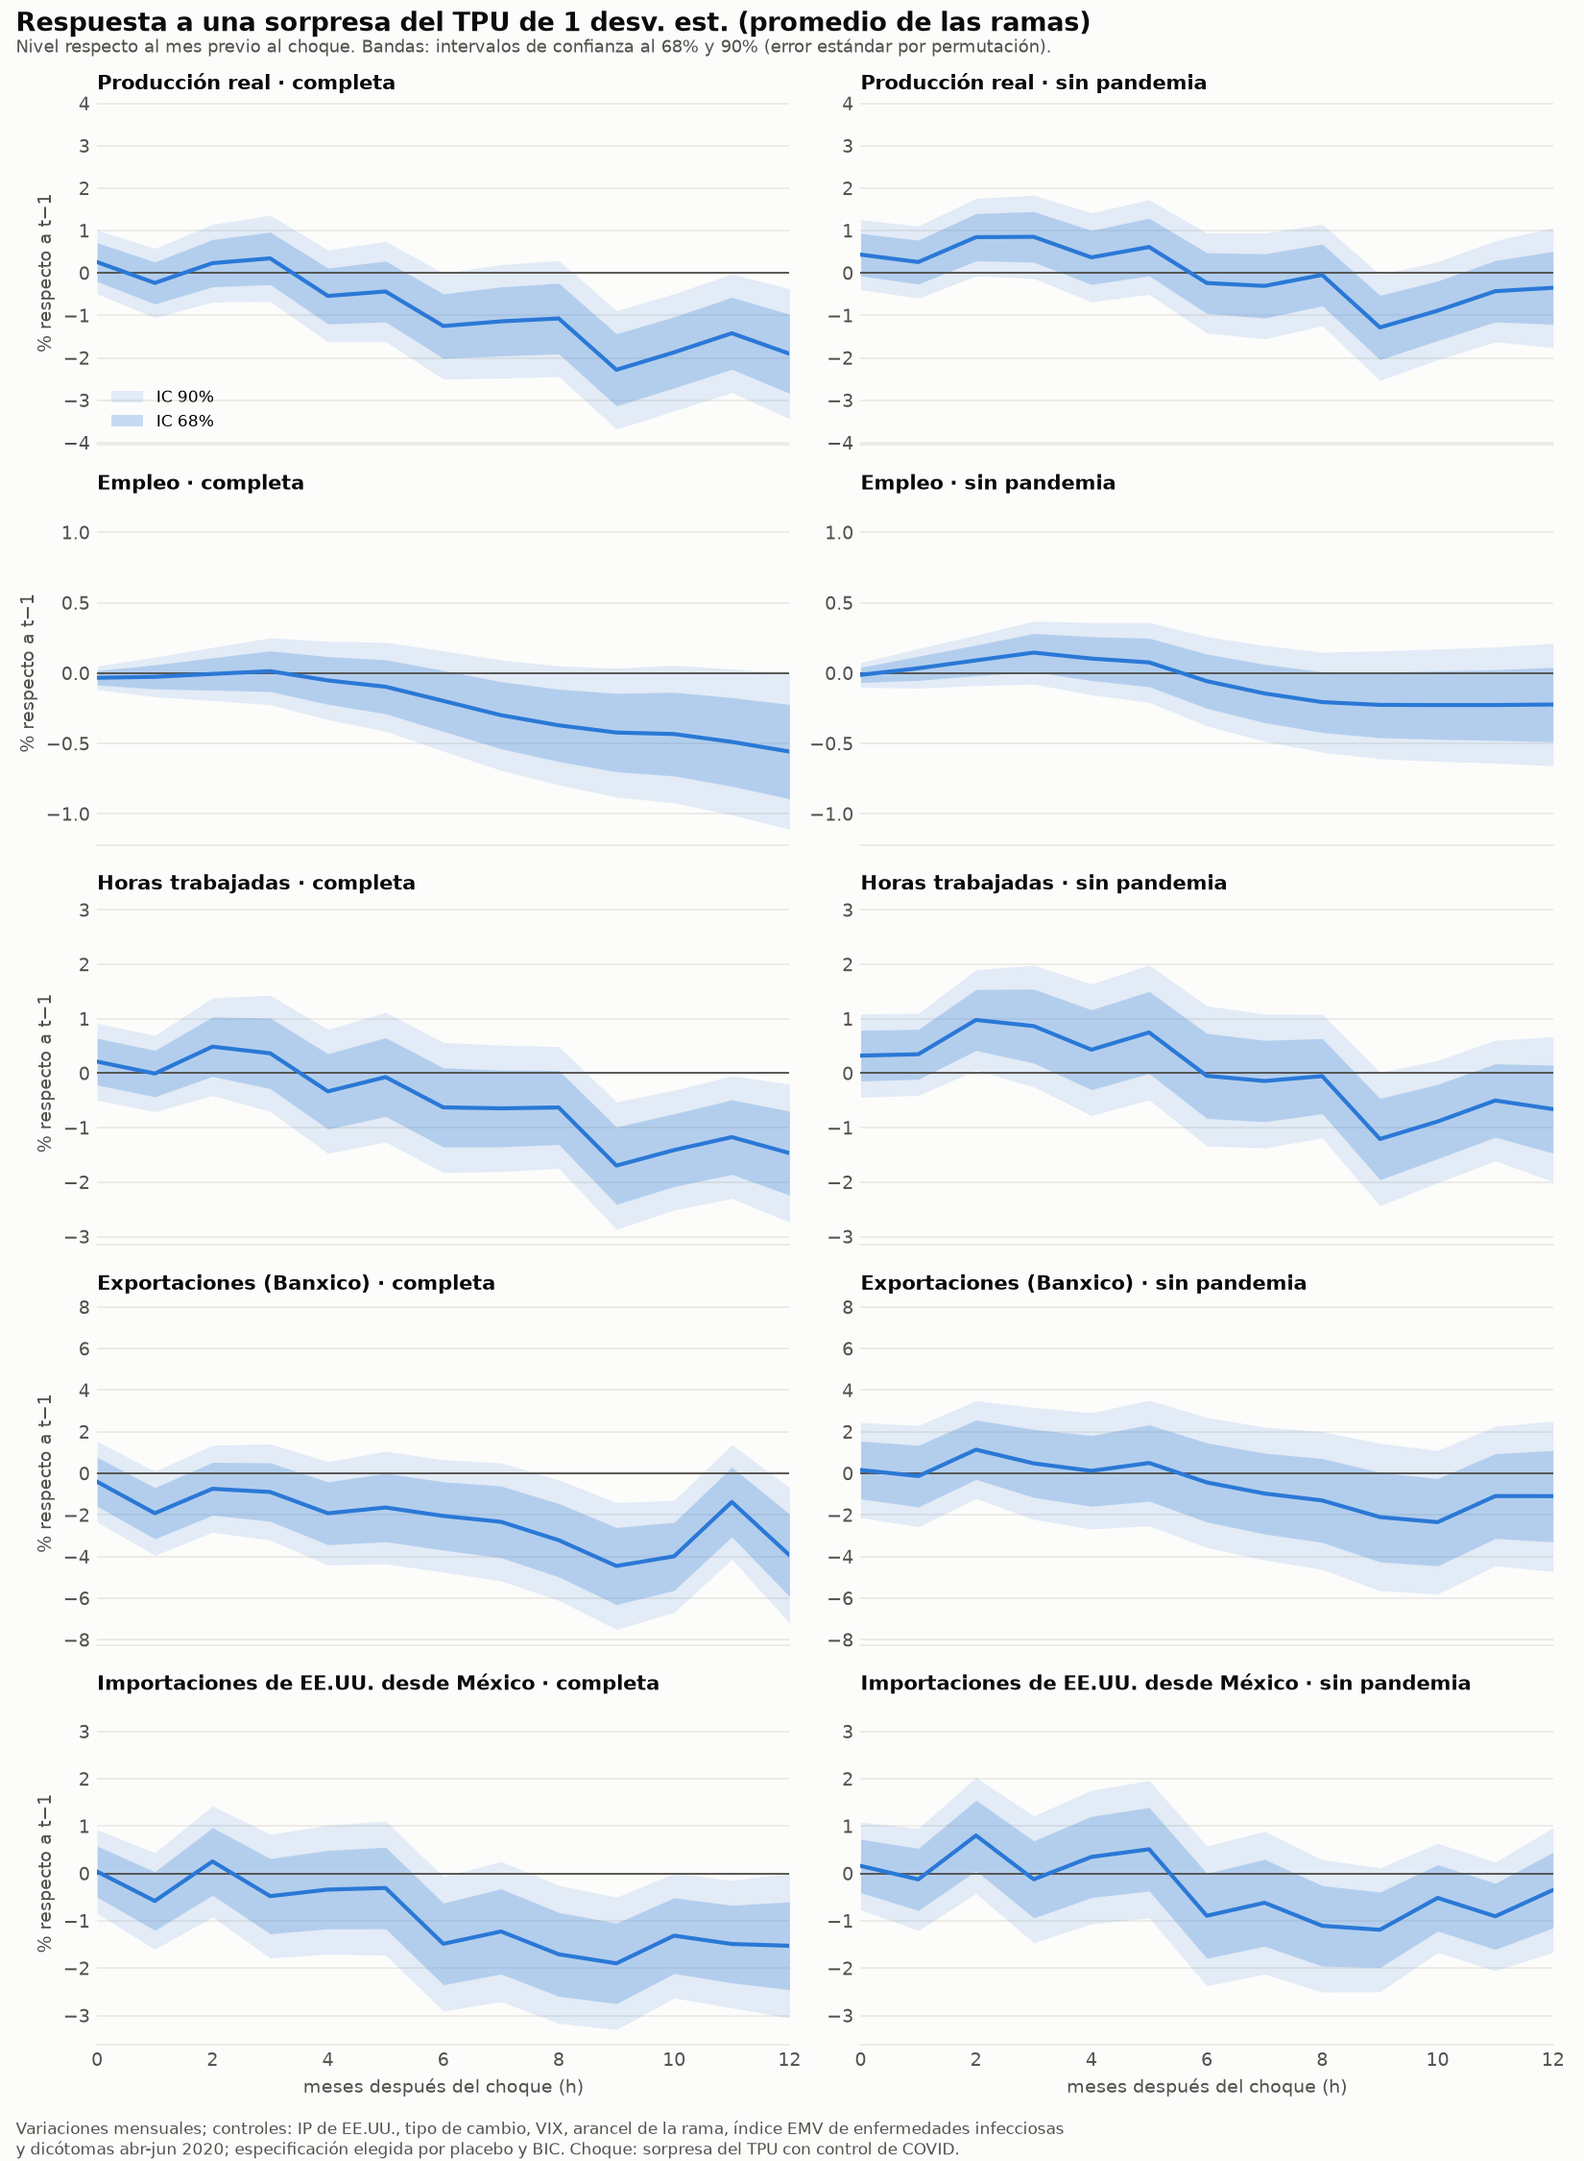
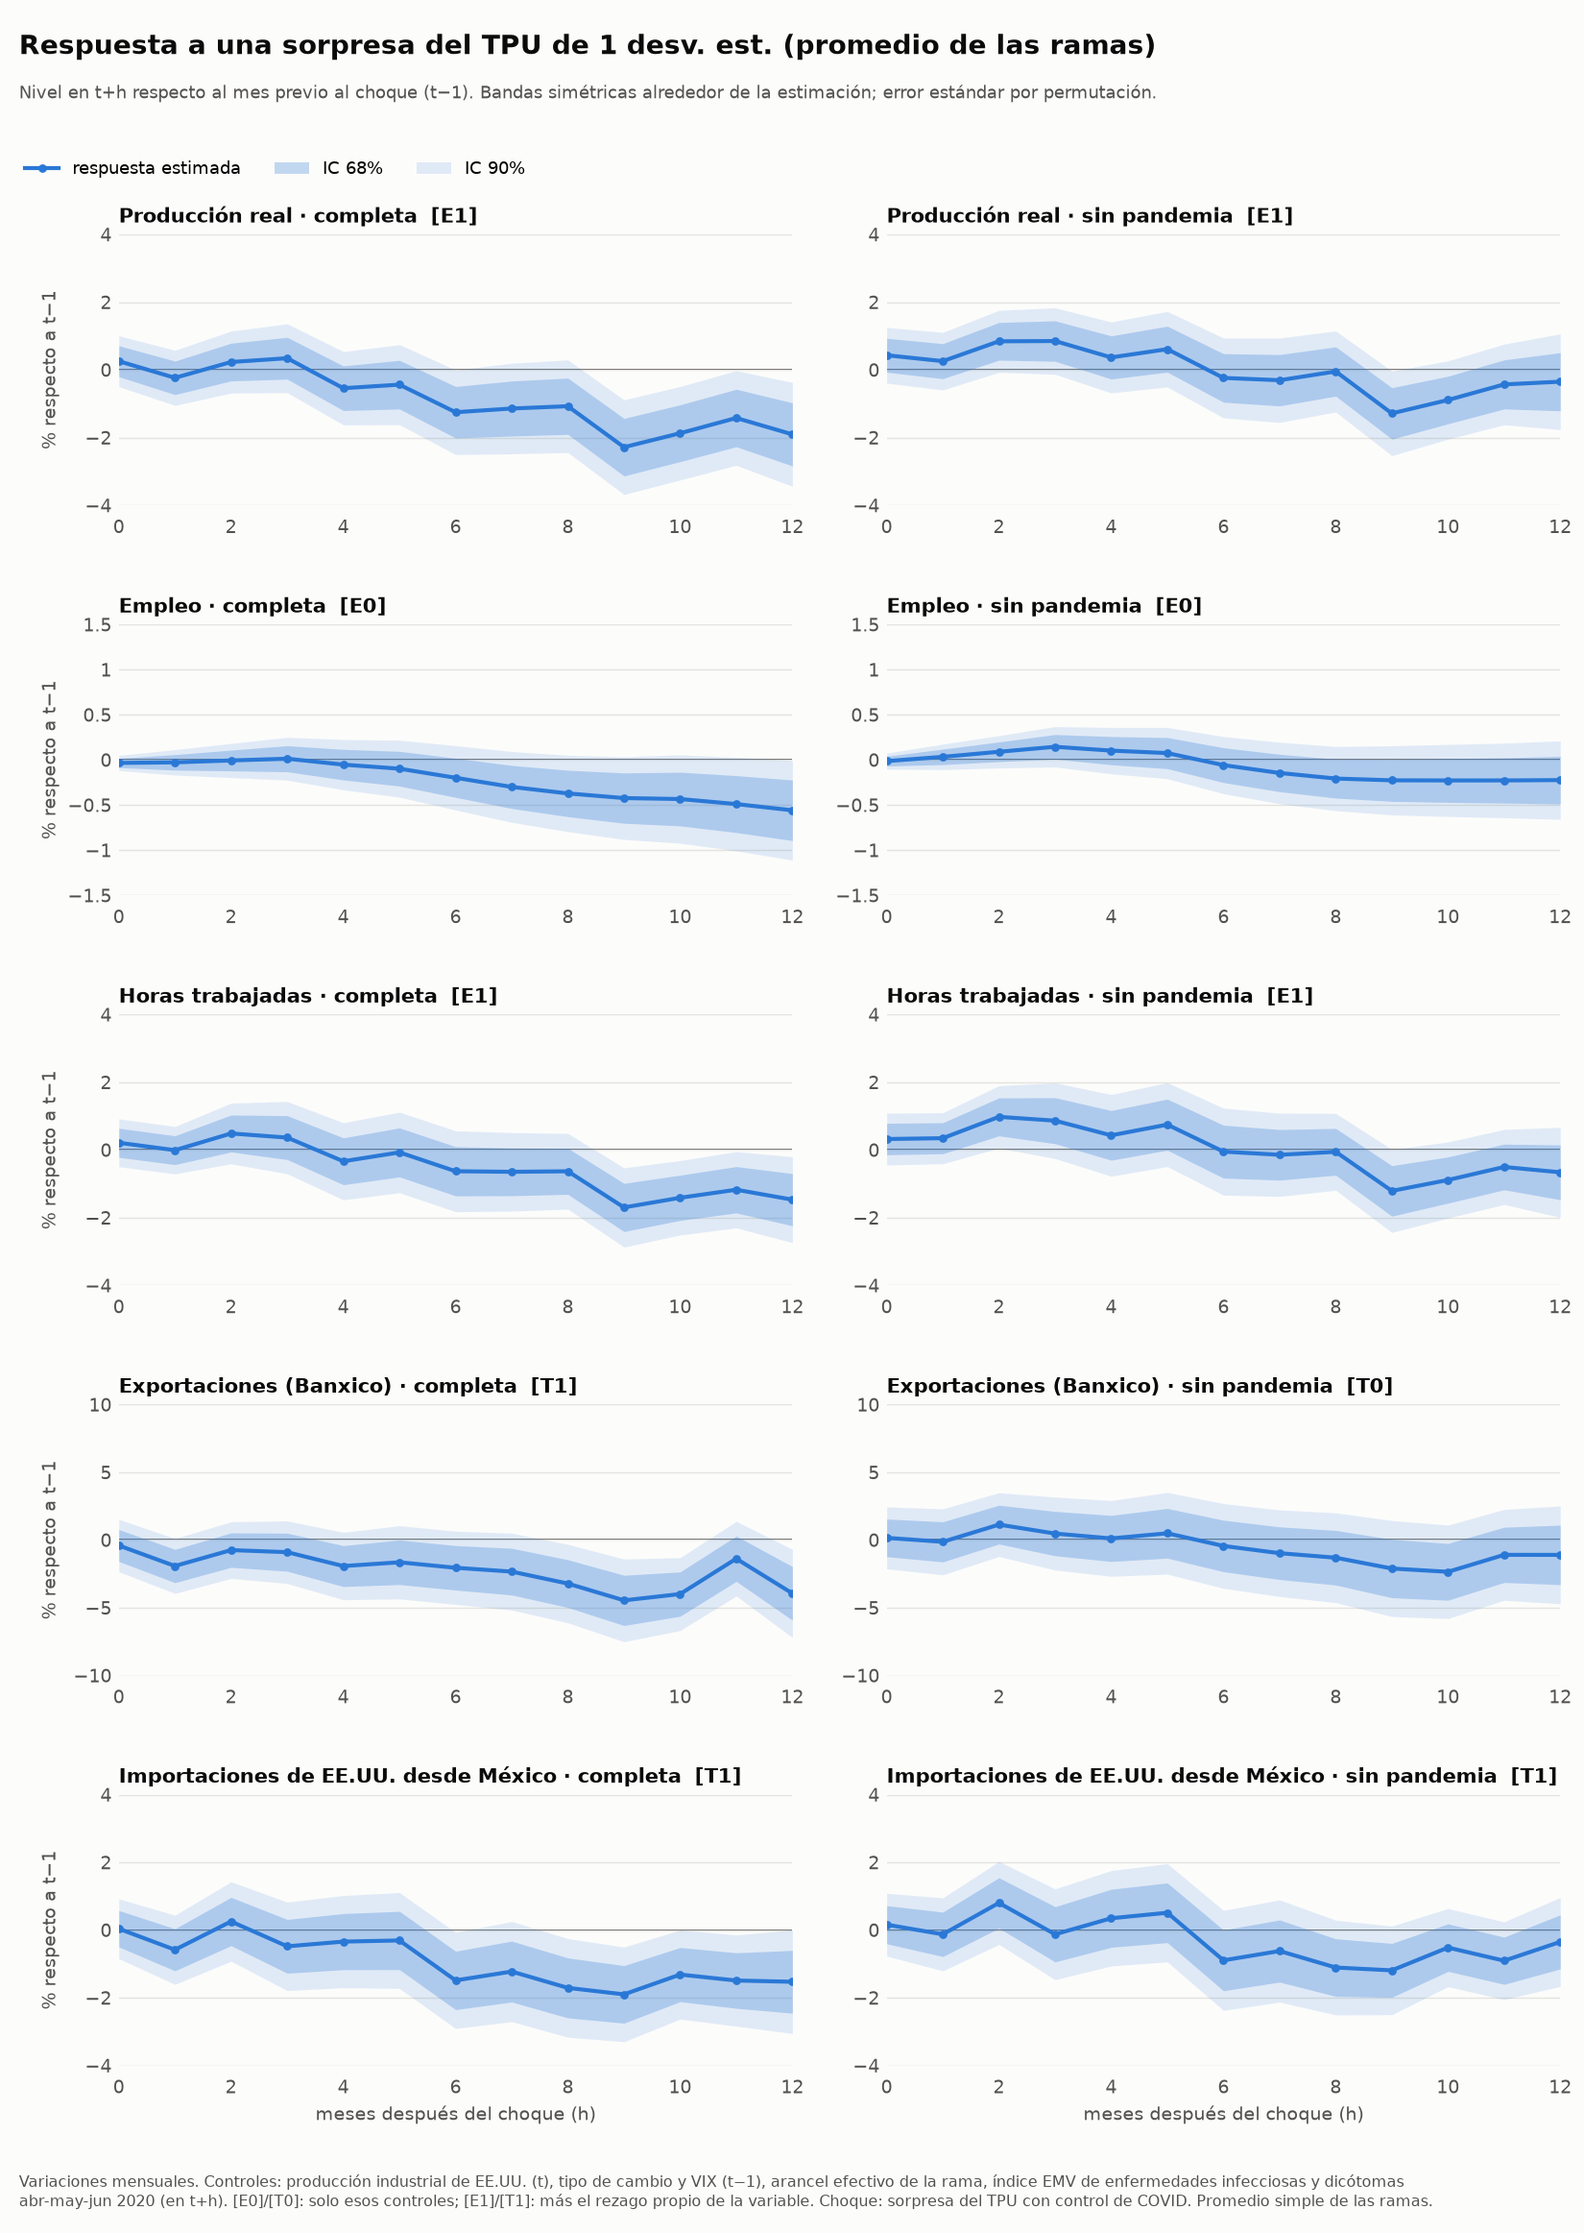
IRF: gráficas rehechas (zona placebo exactamente de -6 a 0, choque en h = 0, eje simétrico, paneles alineados) y verificación independiente con statsmodels
Claude-Session: https://claude.ai/code/session_017HTXBrxyhvUnduRjR7Eb8d

diff --git a/code/Python/05b_graficas_irf.py b/code/Python/05b_graficas_irf.py
@@ -1,0 +1,96 @@
+"""Gráficas de las IRF promedio de las ramas, a partir de outputs/tables/irf_promedio_mensual_covid.csv (ver 05_irf_promedio.py).
+
+Dos figuras (5 variables × 2 muestras):
+  - irf_promedio_mensual_covid.png:          h = 0..12.
+  - irf_promedio_mensual_covid_placebo.png:  h = −6..12; zona gris = meses antes del choque (−6 ≤ h < 0), línea punteada = choque (h = 0).
+Respuesta = nivel en t+h respecto a t−1, en %. Bandas simétricas alrededor de la estimación: 68% (± 1 ee) y 90% (± 1.645 ee),
+con ee = desviación estándar de la misma respuesta bajo 1,000 sorpresas permutadas. Eje vertical simétrico (el cero al centro)
+y común a las dos muestras de cada variable. h = −1 es cero por construcción (mes de referencia); con el rezago propio como
+control (E1, T1) también h = −2 es cero por construcción, así que el placebo informativo es h = −6..−3.
+
+Uso (desde code/Python):  python 05b_graficas_irf.py
+"""
+from pathlib import Path
+import numpy as np
+import pandas as pd
+import matplotlib
+matplotlib.use("Agg")
+import matplotlib.pyplot as plt
+from matplotlib.patches import Patch
+from matplotlib.lines import Line2D
+
+RAIZ = Path(__file__).resolve().parents[1].parent
+irf = pd.read_csv(RAIZ / "outputs/tables/irf_promedio_mensual_covid.csv")
+irf["inf90"], irf["sup90"] = irf.respuesta - 1.645 * irf.ee, irf.respuesta + 1.645 * irf.ee
+irf["inf68"], irf["sup68"] = irf.respuesta - irf.ee, irf.respuesta + irf.ee
+
+AZUL, T1, T2, GRID, SUP, GRIS = "#2a78d6", "#0b0b0b", "#52514e", "#e4e3df", "#fcfcfb", "#ecebe7"
+plt.rcParams.update({"font.family": "DejaVu Sans", "font.size": 9, "axes.edgecolor": GRID, "axes.labelcolor": T2,
+                     "xtick.color": T2, "ytick.color": T2, "figure.facecolor": SUP, "axes.facecolor": SUP})
+NOMBRES = {"produccion": "Producción real", "empleo": "Empleo", "horas": "Horas trabajadas",
+           "exportaciones": "Exportaciones (Banxico)", "importaciones_eeuu": "Importaciones de EE.UU. desde México"}
+MUESTRAS = ["completa", "sin pandemia"]
+
+def limites_simetricos(m):
+    """Límite simétrico 'redondo' y marcas que incluyen el cero: ±k·paso con k ≤ 3."""
+    crudo = m / 3
+    mag = 10 ** np.floor(np.log10(crudo))
+    paso = next(f * mag for f in (1, 2, 2.5, 5, 10) if f * mag >= crudo)
+    k = int(np.ceil(m / paso - 1e-9))
+    return k * paso, np.arange(-k, k + 1) * paso
+
+def figura(h_min, archivo, titulo, subtitulo):
+    fig, ejes = plt.subplots(5, 2, figsize=(11, 15.5))
+    fig.subplots_adjust(left=0.075, right=0.985, top=0.895, bottom=0.075, hspace=0.44, wspace=0.14)
+    for i, v in enumerate(NOMBRES):
+        fila = irf[(irf.variable == v) & (irf.h >= h_min)]
+        lim, marcas = limites_simetricos(1.05 * np.abs(fila[["inf90", "sup90"]].values).max())
+        for j, m in enumerate(MUESTRAS):
+            a, d = ejes[i, j], fila[fila.muestra == m].sort_values("h")
+            if h_min < 0:
+                a.axvspan(h_min, 0, color=GRIS, lw=0, zorder=0)
+                a.axvline(0, color=T2, lw=0.9, ls=(0, (3, 3)), zorder=1)
+                if i == 0:
+                    a.text(h_min / 2, lim * 0.86, "antes del choque\n(placebo)", ha="center", va="top", color=T2, fontsize=8)
+            a.axhline(0, color=T2, lw=0.9, zorder=1)
+            a.fill_between(d.h, d.inf90, d.sup90, color=AZUL, alpha=0.13, lw=0, zorder=2)
+            a.fill_between(d.h, d.inf68, d.sup68, color=AZUL, alpha=0.28, lw=0, zorder=2)
+            a.plot(d.h, d.respuesta, color=AZUL, lw=2, zorder=3)
+            a.plot(d.h, d.respuesta, "o", color=AZUL, ms=3.2, zorder=4)
+            a.set_xlim(h_min, 12)
+            a.set_xticks(range(h_min, 13, 2) if h_min % 2 == 0 else range(h_min, 13))
+            a.set_ylim(-lim, lim); a.set_yticks(marcas)
+            a.yaxis.set_major_formatter(matplotlib.ticker.FuncFormatter(lambda x, _: f"{x:g}".replace("-", "\u2212")))
+            a.xaxis.set_major_formatter(matplotlib.ticker.FuncFormatter(lambda x, _: f"{x:g}".replace("-", "\u2212")))
+            a.grid(axis="y", color=GRID, lw=0.7, zorder=0)
+            for s_ in ("top", "right", "left"): a.spines[s_].set_visible(False)
+            a.spines["bottom"].set_visible(False)
+            a.tick_params(length=0)
+            a.tick_params(axis="x", pad=7)
+            a.set_title(f"{NOMBRES[v]} · {m}  [{d.especificacion.iloc[0]}]", loc="left", color=T1, fontsize=10, fontweight="bold")
+            if j == 0:
+                a.set_ylabel("% respecto a t−1")
+            if i == 4:
+                a.set_xlabel("meses respecto al choque (h)" if h_min < 0 else "meses después del choque (h)")
+    fig.align_ylabels(ejes[:, 0])
+    fig.text(0.012, 0.985, titulo, fontsize=13.5, fontweight="bold", color=T1, va="top")
+    fig.text(0.012, 0.962, subtitulo, fontsize=8.8, color=T2, va="top")
+    fig.legend(handles=[Line2D([], [], color=AZUL, lw=2, marker="o", ms=3.2, label="respuesta estimada"),
+                        Patch(color=AZUL, alpha=0.28, lw=0, label="IC 68%"), Patch(color=AZUL, alpha=0.13, lw=0, label="IC 90%")],
+               loc="upper left", bbox_to_anchor=(0.006, 0.935), ncol=3, frameon=False, fontsize=8.5)
+    fig.text(0.012, 0.012, "Variaciones mensuales. Controles: producción industrial de EE.UU. (t), tipo de cambio y VIX (t−1), arancel efectivo de la rama, "
+             "índice EMV de enfermedades infecciosas y dicótomas\nabr-may-jun 2020 (en t+h). [E0]/[T0]: solo esos controles; [E1]/[T1]: más el rezago propio "
+             "de la variable. Choque: sorpresa del TPU con control de COVID. Promedio simple de las ramas.", fontsize=7.8, color=T2)
+    fig.savefig(RAIZ / f"outputs/figures/{archivo}", dpi=150)
+    plt.close(fig)
+    print("Guardado:", archivo)
+
+figura(0, "irf_promedio_mensual_covid.png", "Respuesta a una sorpresa del TPU de 1 desv. est. (promedio de las ramas)",
+       "Nivel en t+h respecto al mes previo al choque (t−1). Bandas simétricas alrededor de la estimación; error estándar por permutación.")
+figura(-6, "irf_promedio_mensual_covid_placebo.png", "Respuesta a una sorpresa del TPU de 1 desv. est., con placebo (promedio de las ramas)",
+       "Nivel en t+h respecto al mes previo al choque (t−1). Zona gris: meses antes del choque, donde la respuesta debe ser cero.\n"
+       "h = −1 es la referencia (cero por construcción); con [E1]/[T1], h = −2 también es cero por construcción.")
+
+# Coherencia entre las bandas simétricas y los valores p de permutación
+chk = irf[irf.h != -1].assign(fuera90=lambda d: (d.inf90 > 0) | (d.sup90 < 0), p10=lambda d: d.p < 0.10)
+print("Horizontes donde la banda del 90% y el valor p de permutación no coinciden:", int((chk.fuera90 != chk.p10).sum()), "de", len(chk))

diff --git a/code/Python/05_irf_promedio.py b/code/Python/05_irf_promedio.py
@@ -5,8 +5,8 @@ Respuesta del NIVEL respecto al mes previo al choque (t−1), en %: para h ≥ 0
 Error estándar = desviación estándar de la misma respuesta con 1,000 sorpresas permutadas. Gráfica: h = 0..12, bandas
 simétricas al 68% (± 1 ee) y al 90% (± 1.645 ee) alrededor de la estimación. Valor p por permutación.
 
-Uso (desde code/Python):  python 05_irf_promedio.py
-Salidas: outputs/tables/irf_promedio_mensual_covid.csv, outputs/figures/irf_promedio_mensual_covid.png
+Uso (desde code/Python):  python 05_irf_promedio.py     (después: python 05b_graficas_irf.py)
+Salida: outputs/tables/irf_promedio_mensual_covid.csv
 """
 import sys
 sys.argv = [sys.argv[0], "1", "covid"]
@@ -40,41 +40,3 @@ irf = pd.DataFrame(filas)
 irf.to_csv(RAIZ / "outputs/tables/irf_promedio_mensual_covid.csv", index=False)
 print("Guardado: outputs/tables/irf_promedio_mensual_covid.csv")
 
-# ------------------------------------------------------------------ gráfica
-import matplotlib
-matplotlib.use("Agg")
-import matplotlib.pyplot as plt
-AZUL, T1, T2, GRID, SUP, BANDA = "#2a78d6", "#0b0b0b", "#52514e", "#e9e8e4", "#fcfcfb", "#8a8984"
-plt.rcParams.update({"font.family": "DejaVu Sans", "font.size": 9, "axes.edgecolor": GRID, "axes.labelcolor": T2,
-                     "xtick.color": T2, "ytick.color": T2, "figure.facecolor": SUP, "axes.facecolor": SUP})
-NOMBRES = {"produccion": "Producción real", "empleo": "Empleo", "horas": "Horas trabajadas",
-           "exportaciones": "Exportaciones (Banxico)", "importaciones_eeuu": "Importaciones de EE.UU. desde México"}
-fig, ejes = plt.subplots(5, 2, figsize=(11, 15), sharex=True)
-for i, v in enumerate(NOMBRES):
-    sub = irf[(irf.variable == v) & (irf.h >= 0)].copy()
-    sub["inf90"], sub["sup90"] = sub.respuesta - 1.645 * sub.ee, sub.respuesta + 1.645 * sub.ee
-    sub["inf68"], sub["sup68"] = sub.respuesta - sub.ee, sub.respuesta + sub.ee
-    lim = 1.1 * np.abs(sub[["inf90", "sup90"]].values).max()                 # eje simétrico: el cero al centro
-    for j, m in enumerate(["completa", "sin pandemia"]):
-        a, d = ejes[i, j], sub[sub.muestra == m].sort_values("h")
-        a.fill_between(d.h, d.inf90, d.sup90, color=AZUL, alpha=0.12, lw=0, label="IC 90%")
-        a.fill_between(d.h, d.inf68, d.sup68, color=AZUL, alpha=0.25, lw=0, label="IC 68%")
-        a.axhline(0, color=T2, lw=0.9)
-        a.plot(d.h, d.respuesta, color=AZUL, lw=2)
-        a.set_ylim(-lim, lim); a.set_xlim(0, 12)
-        a.grid(axis="y", color=GRID, lw=0.8); a.set_axisbelow(True)
-        for s_ in ("top", "right", "left"): a.spines[s_].set_visible(False)
-        a.tick_params(length=0)
-        a.set_title(f"{NOMBRES[v]} · {m}", loc="left", color=T1, fontsize=10, fontweight="bold")
-        if j == 0: a.set_ylabel("% respecto a t−1")
-        a.set_xticks(range(0, 13, 2))
-ejes[0, 0].legend(loc="lower left", frameon=False, fontsize=8)
-for a in ejes[-1]: a.set_xlabel("meses después del choque (h)")
-fig.text(0.01, 0.995, "Respuesta a una sorpresa del TPU de 1 desv. est. (promedio de las ramas)", fontsize=13, fontweight="bold", color=T1, va="top")
-fig.text(0.01, 0.982, "Nivel respecto al mes previo al choque. Bandas: intervalos de confianza al 68% y 90% (error estándar por permutación).",
-         fontsize=8.5, color=T2, va="top")
-fig.text(0.01, 0.003, "Variaciones mensuales; controles: IP de EE.UU., tipo de cambio, VIX, arancel de la rama, índice EMV de enfermedades infecciosas\n"
-         "y dicótomas abr-jun 2020; especificación elegida por placebo y BIC. Choque: sorpresa del TPU con control de COVID.", fontsize=8, color=T2)
-plt.tight_layout(rect=(0, 0.02, 1, 0.975))
-fig.savefig(RAIZ / "outputs/figures/irf_promedio_mensual_covid.png", dpi=150)
-print("Guardado: outputs/figures/irf_promedio_mensual_covid.png")

diff --git a/code/Python/05c_verifica_irf.py b/code/Python/05c_verifica_irf.py
@@ -1,0 +1,44 @@
+"""Verificación independiente de la IRF de producción (muestra completa): MCO con statsmodels rama por rama, sin el estimador de 04.
+Debe coincidir con outputs/tables/irf_promedio_mensual_covid.csv (diferencia ~1e-15). Uso (desde code/Python): python 05c_verifica_irf.py"""
+import sys
+sys.argv = ["x", "1", "covid"]
+from pathlib import Path
+import numpy as np, pandas as pd, statsmodels.api as sm
+src = Path("04_especificaciones_por_rama.py").read_text(encoding="utf-8")
+src = src[:src.index('if __name__ != "__main__":')]
+ns = {"__file__": str(Path("04_especificaciones_por_rama.py").resolve())}
+exec(compile(src, "04", "exec"), ns)
+P, choque, ramas = ns["P"].copy(), ns["choque"], ns["ramas"]
+# El panel es una malla completa rama × mes: los desplazamientos por posición equivalen a desplazamientos por fecha.
+assert P.groupby("rama").size().nunique() == 1 and (P.groupby("rama").mes.diff().dropna().dt.days.between(28, 31)).all()
+P["s0"] = P.mes.map(choque); P["s1"] = (P.mes - pd.DateOffset(months=1)).map(choque)
+H = list(range(-6, 13))
+beta = {h: [] for h in H}
+for r in ramas:
+    d = P[P.rama == r].sort_values("mes").reset_index(drop=True)
+    bs = {}
+    for h in H:
+        X = pd.DataFrame({"s0": d.s0, "s1": d.s1, "ip": d.d1_lip, "tc_l1": d.d1_ltc.shift(1), "vix_l1": d.d1_lvix.shift(1),
+                          "y_l1": d.d1_l_produccion.shift(1), "ar": d.d1_arancel.shift(-h), "cov": d.d1_lcovid.shift(-h),
+                          "d4": d["dum_2020-04"].shift(-h), "d5": d["dum_2020-05"].shift(-h), "d6": d["dum_2020-06"].shift(-h)})
+        X = X.loc[:, X.notna().any()]                              # rama sin arancel (3328): se omite la columna
+        y = d.d1_l_produccion.shift(-h)
+        m = X.notna().all(axis=1) & y.notna()
+        Xm = X[m].loc[:, X[m].nunique() > 1]
+        if m.sum() < 30:
+            bs = None; break
+        bs[h] = sm.OLS(y[m], sm.add_constant(Xm)).fit().params["s0"]
+    if bs is None:
+        continue
+    for h in H:
+        beta[h].append(bs[h])
+bm = {h: 100 * np.mean(v) for h, v in beta.items()}
+cum = {h: (sum(bm[j] for j in range(0, h + 1)) if h >= 0 else (0.0 if h == -1 else -sum(bm[j] for j in range(h + 1, 0)))) for h in H}
+irf = pd.read_csv("../../outputs/tables/irf_promedio_mensual_covid.csv")
+ref = irf[(irf.variable == "produccion") & (irf.muestra == "completa")].set_index("h").respuesta
+comp = pd.DataFrame({"verificacion_statsmodels": pd.Series(cum), "tabla_irf": ref})
+comp["diferencia"] = comp.verificacion_statsmodels - comp.tabla_irf
+print(f"ramas usadas: {len(beta[0])}")
+print(comp.round(6).to_string())
+print("Diferencia absoluta máxima:", comp.diferencia.abs().max())
+print("β de h = −1 (con el rezago propio como control), promedio:", round(bm[-1], 10))
